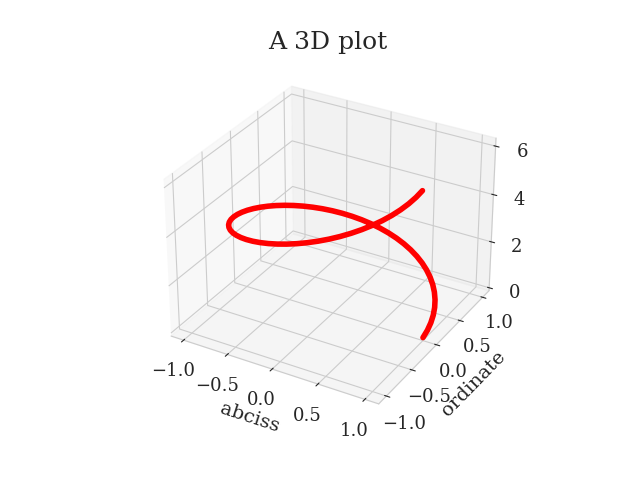
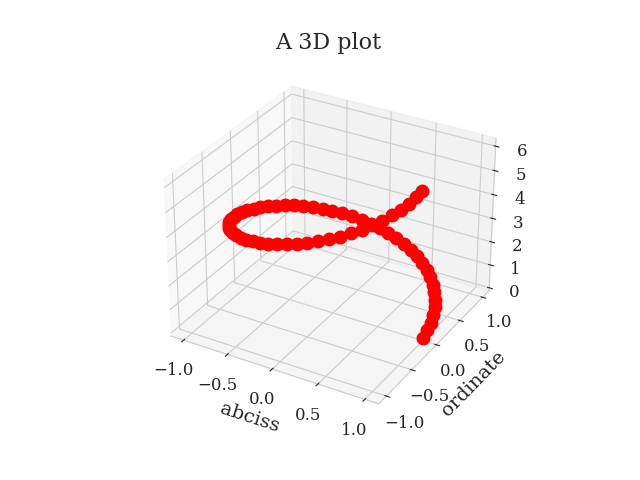
Graph plot alterations.

diff --git a/modelling_utils/utils.py b/modelling_utils/utils.py
@@ -102,17 +102,18 @@ def timer(func):
 def _set_2D_style():
     sns.set_style('whitegrid') # darkgrid, white grid, dark, white and ticks
     custom_cycler = (
-        cycler(color=['r', 'g', 'b', 'y']) +
-        cycler(linestyle=['-', '--', ':', '-.'])
+        cycler(color=['r', 'b', 'g', 'k', 'm']) +
+        cycler(linestyle=['-', '--', '-.', '-', "--"]) +
+        cycler(marker=["o", "D", "v", ">", "s"])
     )
-    plt.rc("lines", linewidth=4)    # line width
-    plt.rc('axes', titlesize=18)     # fontsize of the axes title
+    plt.rc("lines", linewidth=3, mew=4)    # line width, marker size, marker face color
+    plt.rc('axes', titlesize=16)     # fontsize of the axes title
     plt.rc('axes', labelsize=14)    # fontsize of the x and y labels
     plt.rc("axes", prop_cycle=custom_cycler) # define a cycler of colours and linestyle
-    plt.rc('xtick', labelsize=13)    # fontsize of the tick labels
-    plt.rc('ytick', labelsize=13)    # fontsize of the tick labels
-    plt.rc('legend', fontsize=13)    # legend fontsize
-    plt.rc('font', size=13)          # controls default text sizes
+    plt.rc('xtick', labelsize=12)    # fontsize of the tick labels
+    plt.rc('ytick', labelsize=12)    # fontsize of the tick labels
+    plt.rc('legend', fontsize=11)    # legend fontsize
+    plt.rc('font', size=11)          # controls default text sizes
     #define font family to use for all text
     mpl.rcParams['font.family'] = 'serif'
 

diff --git a/tests/test_modelling_utils.py b/tests/test_modelling_utils.py
@@ -13,7 +13,7 @@ import unittest
 class TestModellingFramework(unittest.TestCase):
 
     def test_version(self):
-        self.assertEqual(__version__, '0.2.6')
+        self.assertEqual(__version__, '0.2.8')
     
     def test_single_plot_2d(self):
         x = np.arange(0, 2*(np.pi), 0.1)

diff --git a/modelling_utils/__init__.py b/modelling_utils/__init__.py
@@ -1,4 +1,4 @@
-__version__ = '0.2.6'
+__version__ = '0.2.8'
 __author__ = "Diogo André"
 __date__ = "2022-05-05"
 __annotations__ = "Utility functions and data structure for Analog Integrated Circuit Modelling"
